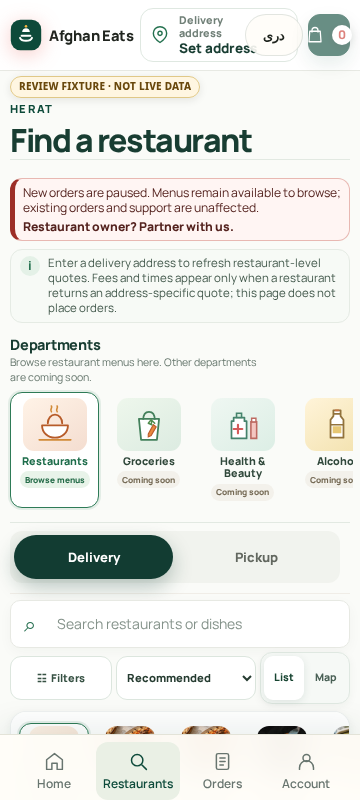
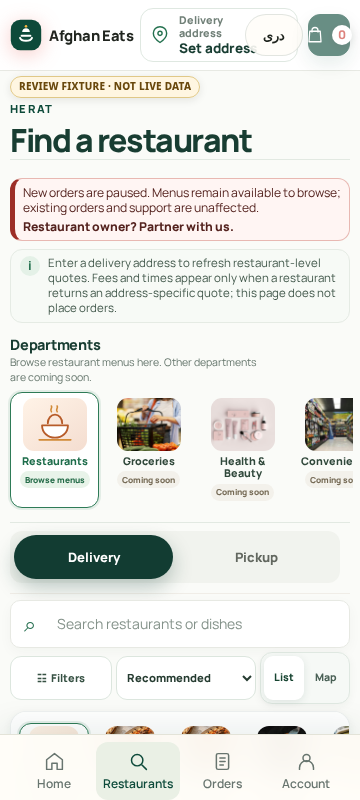
[skip netlify] Remove Alcohol and add department photos

Changed region(s): [[0.825, 0.5, 1.0, 0.5938], [0.3056, 0.5, 0.5194, 0.5625], [0.5806, 0.5, 0.7333, 0.5625]]

diff --git a/restaurants.html b/restaurants.html
@@ -19,7 +19,7 @@
   <link rel="stylesheet" href="/assets/restaurant-card-stability.css?v=20260905-2">
 <link rel="stylesheet" href="/assets/restaurants-mobile-fix.css?v=20260906-1">
 <link rel="stylesheet" href="/assets/design-2026.css?v=premium-experience-2"><link rel="stylesheet" href="/assets/premium-design-pass.css?v=premium-experience-2"><link rel="stylesheet" href="/assets/storefront.css?v=storefront-1">
-  <link rel="stylesheet" href="/assets/restaurant-listing-review.css?v=20261123-12">
+  <link rel="stylesheet" href="/assets/restaurant-listing-review.css?v=20261123-department-photos-1">
 </head>
 <body class="ae-premium premium-customer restaurants-page">
   <a class="ae-skip-link" href="#restaurantGrid"><span class="en-copy">Skip to restaurant results</span><span class="fa-copy">رفتن به نتایج رستورانتها</span></a>
@@ -39,37 +39,32 @@
           <span class="ae-department-status is-available"><span class="en-copy">Browse menus</span><span class="fa-copy">دیدن منوها</span></span>
         </a>
         <button class="ae-department-tile is-coming-soon" data-department="groceries" type="button" disabled>
-          <span class="ae-department-art art-groceries" aria-hidden="true"><svg class="ae-department-icon" viewBox="0 0 64 56" fill="none"><path d="M18 21h28l-3 29H21l-3-29Z" fill="#fff" stroke="#43805b" stroke-width="2.5" stroke-linejoin="round"/><path d="M24 22c0-7 3-11 8-11s8 4 8 11" stroke="#43805b" stroke-width="2.5"/><path d="m31 42 7-13 4 3-7 12-4 2v-4Z" fill="#e9883e" stroke="#bc5d2d" stroke-width="1.6"/><path d="m35 29 1-6 4 4m-4 2-5-2 4-5" stroke="#4f8c4c" stroke-width="2" stroke-linecap="round" stroke-linejoin="round"/></svg></span>
+          <span class="ae-department-art art-groceries" aria-hidden="true"><img src="/assets/department-images/groceries.jpg" alt="" loading="eager" decoding="async" width="72" height="60"></span>
           <strong class="ae-department-name"><span class="en-copy">Groceries</span><span class="fa-copy">مواد خوراکی</span></strong>
           <span class="ae-department-status"><span class="en-copy">Coming soon</span><span class="fa-copy">بهزودی</span></span>
         </button>
         <button class="ae-department-tile is-coming-soon" data-department="health-beauty" type="button" disabled>
-          <span class="ae-department-art art-health" aria-hidden="true"><svg class="ae-department-icon" viewBox="0 0 64 56" fill="none"><path d="M19 19h15v5h3v24H16V24h3v-5Z" fill="#fff" stroke="#45836c" stroke-width="2.4" stroke-linejoin="round"/><path d="M23 13h7v6h-7z" fill="#d9eee0" stroke="#45836c" stroke-width="2.2"/><path d="M25 29v12m-6-6h12" stroke="#d45b59" stroke-width="3" stroke-linecap="round"/><path d="M43 25h8v23h-8z" fill="#f4c7c1" stroke="#bd6a61" stroke-width="2.2"/><path d="M44 20h6v5h-6z" fill="#fff" stroke="#bd6a61" stroke-width="2"/></svg></span>
+          <span class="ae-department-art art-health" aria-hidden="true"><img src="/assets/department-images/health-beauty.jpg" alt="" loading="eager" decoding="async" width="72" height="60"></span>
           <strong class="ae-department-name"><span class="en-copy">Health &amp; Beauty</span><span class="fa-copy">صحت و زیبایی</span></strong>
           <span class="ae-department-status"><span class="en-copy">Coming soon</span><span class="fa-copy">بهزودی</span></span>
         </button>
-        <button class="ae-department-tile is-coming-soon" data-department="alcohol" type="button" disabled>
-          <span class="ae-department-art art-alcohol" aria-hidden="true"><svg class="ae-department-icon" viewBox="0 0 64 56" fill="none"><path d="M27 9h10v8l4 5v25H23V22l4-5V9Z" fill="#fff" stroke="#92733c" stroke-width="2.5" stroke-linejoin="round"/><path d="M27 14h10m-14 15h18" stroke="#92733c" stroke-width="2.3"/><path d="M26 31h12v10H26z" fill="#e6c774"/><path d="M30 9h4" stroke="#c87643" stroke-width="2.5" stroke-linecap="round"/></svg></span>
-          <strong class="ae-department-name"><span class="en-copy">Alcohol</span><span class="fa-copy">مشروبات الکلی</span></strong>
-          <span class="ae-department-status"><span class="en-copy">Coming soon</span><span class="fa-copy">بهزودی</span></span>
-        </button>
         <button class="ae-department-tile is-coming-soon" data-department="convenience" type="button" disabled>
-          <span class="ae-department-art art-convenience" aria-hidden="true"><svg class="ae-department-icon" viewBox="0 0 64 56" fill="none"><path d="M18 21h28l-3 29H21l-3-29Z" fill="#fff" stroke="#4e7890" stroke-width="2.5" stroke-linejoin="round"/><path d="M24 22c0-7 3-11 8-11s8 4 8 11" stroke="#4e7890" stroke-width="2.5"/><path d="M32 29v13m-6.5-6.5h13" stroke="#e08a42" stroke-width="3" stroke-linecap="round"/></svg></span>
+          <span class="ae-department-art art-convenience" aria-hidden="true"><img src="/assets/department-images/convenience.jpg" alt="" loading="eager" decoding="async" width="72" height="60"></span>
           <strong class="ae-department-name"><span class="en-copy">Convenience</span><span class="fa-copy">ضروریات روزانه</span></strong>
           <span class="ae-department-status"><span class="en-copy">Coming soon</span><span class="fa-copy">بهزودی</span></span>
         </button>
         <button class="ae-department-tile is-coming-soon" data-department="gifts" type="button" disabled>
-          <span class="ae-department-art art-gifts" aria-hidden="true"><svg class="ae-department-icon" viewBox="0 0 64 56" fill="none"><path d="M15 27h34v23H15z" fill="#fff" stroke="#ad5f69" stroke-width="2.4"/><path d="M12 21h40v9H12z" fill="#f2b8ae" stroke="#ad5f69" stroke-width="2.4"/><path d="M32 21v29" stroke="#ad5f69" stroke-width="2.4"/><path d="M31 21c-12 1-14-8-8-10 5-1 8 5 9 10Zm2 0c12 1 14-8 8-10-5-1-8 5-9 10Z" fill="#f7db7f" stroke="#ad5f69" stroke-width="2.1" stroke-linejoin="round"/></svg></span>
+          <span class="ae-department-art art-gifts" aria-hidden="true"><img src="/assets/department-images/gifts.jpg" alt="" loading="eager" decoding="async" width="72" height="60"></span>
           <strong class="ae-department-name"><span class="en-copy">Gifts</span><span class="fa-copy">هدایا</span></strong>
           <span class="ae-department-status"><span class="en-copy">Coming soon</span><span class="fa-copy">بهزودی</span></span>
         </button>
         <button class="ae-department-tile is-coming-soon" data-department="electronics" type="button" disabled>
-          <span class="ae-department-art art-electronics" aria-hidden="true"><svg class="ae-department-icon" viewBox="0 0 64 56" fill="none"><rect x="12" y="11" width="29" height="37" rx="4" fill="#fff" stroke="#5a6c9e" stroke-width="2.5"/><rect x="17" y="16" width="19" height="25" rx="1.5" fill="#cbd7f5"/><circle cx="26.5" cy="44.5" r="1.4" fill="#5a6c9e"/><rect x="39" y="24" width="13" height="24" rx="3" fill="#f5c4a8" stroke="#a76c55" stroke-width="2.3"/><path d="M43 28h5m-3 15h1" stroke="#a76c55" stroke-width="1.8" stroke-linecap="round"/></svg></span>
+          <span class="ae-department-art art-electronics" aria-hidden="true"><img src="/assets/department-images/electronics.jpg" alt="" loading="eager" decoding="async" width="72" height="60"></span>
           <strong class="ae-department-name"><span class="en-copy">Electronics</span><span class="fa-copy">لوازم الکترونیکی</span></strong>
           <span class="ae-department-status"><span class="en-copy">Coming soon</span><span class="fa-copy">بهزودی</span></span>
         </button>
         <button class="ae-department-tile is-coming-soon" data-department="pet-supplies" type="button" disabled>
-          <span class="ae-department-art art-pets" aria-hidden="true"><svg class="ae-department-icon" viewBox="0 0 64 56" fill="none"><path d="M16 35h32l-4 12H20l-4-12Z" fill="#fff" stroke="#6c7094" stroke-width="2.5" stroke-linejoin="round"/><path d="M19 35c2 5 8 8 13 8s11-3 13-8" fill="#b9d8e1"/><ellipse cx="24" cy="24" rx="3.2" ry="4" fill="#d99a78"/><ellipse cx="31" cy="20" rx="3.2" ry="4" fill="#d99a78"/><ellipse cx="38" cy="24" rx="3.2" ry="4" fill="#d99a78"/><path d="M27 28c0-3 2-5 5-5s5 2 5 5-2 5-5 5-5-2-5-5Z" fill="#d99a78"/></svg></span>
+          <span class="ae-department-art art-pets" aria-hidden="true"><img src="/assets/department-images/pet-supplies.jpg" alt="" loading="eager" decoding="async" width="72" height="60"></span>
           <strong class="ae-department-name"><span class="en-copy">Pet Supplies</span><span class="fa-copy">لوازم حیوانات خانگی</span></strong>
           <span class="ae-department-status"><span class="en-copy">Coming soon</span><span class="fa-copy">بهزودی</span></span>
         </button>

diff --git a/tests/customer-journey.spec.js b/tests/customer-journey.spec.js
@@ -922,7 +922,12 @@ test('marketplace departments keep restaurant browsing active and other sections
   await page.goto('/restaurants');
   const departments=page.getByRole('navigation',{name:'Marketplace departments'});
   await expect(departments).toBeVisible();
-  await expect(departments.locator('[data-department]')).toHaveCount(8);
+  await expect(departments.locator('[data-department]')).toHaveCount(7);
+  await expect(departments.locator('[data-department="alcohol"]')).toHaveCount(0);
+  const departmentKeys=await departments.locator('.ae-department-row > [data-department]').evaluateAll(nodes=>nodes.map(node=>node.dataset.department));
+  expect(departmentKeys).toEqual(['restaurants','groceries','health-beauty','convenience','gifts','electronics','pet-supplies']);
+  await expect(departments.locator('.dish-category-row')).toHaveCount(0);
+  await expect(page.locator('.dish-category-row')).toBeVisible();
   await expect(departments.locator('a')).toHaveCount(1);
   const restaurantsTile=departments.locator('[data-department="restaurants"]');
   await expect(restaurantsTile).toHaveAttribute('href','/restaurants');
@@ -930,14 +935,18 @@ test('marketplace departments keep restaurant browsing active and other sections
   await expect(restaurantsTile).toContainText('Restaurants');
   await expect(restaurantsTile).toContainText('Browse menus');
   const futureDepartments=[
-    ['groceries','Groceries'],['health-beauty','Health & Beauty'],['alcohol','Alcohol'],
-    ['convenience','Convenience'],['gifts','Gifts'],['electronics','Electronics'],['pet-supplies','Pet Supplies']
+    ['groceries','Groceries','groceries.jpg'],['health-beauty','Health & Beauty','health-beauty.jpg'],
+    ['convenience','Convenience','convenience.jpg'],['gifts','Gifts','gifts.jpg'],
+    ['electronics','Electronics','electronics.jpg'],['pet-supplies','Pet Supplies','pet-supplies.jpg']
   ];
-  for(const [key,label] of futureDepartments){
+  for(const [key,label,imageName] of futureDepartments){
     const tile=departments.locator(`[data-department="${key}"]`);
     await expect(tile).toBeDisabled();
     await expect(tile).toContainText(label);
     await expect(tile).toContainText('Coming soon');
+    const photo=tile.locator('.ae-department-art img');
+    await expect(photo).toHaveAttribute('src',`/assets/department-images/${imageName}`);
+    await expect.poll(()=>photo.evaluate(image=>image.naturalWidth)).toBeGreaterThan(0);
   }
   await page.setViewportSize({width:390,height:844});
   const mobileDepartmentLayout=await page.evaluate(()=>{
@@ -954,7 +963,7 @@ test('marketplace departments keep restaurant browsing active and other sections
   await expect(departmentsFa.locator('[data-department="restaurants"]')).toContainText('رستورانتها');
   await expect(departmentsFa.locator('[data-department="restaurants"]')).toContainText('دیدن منوها');
   const futureLabelsFa=[
-    ['groceries','مواد خوراکی'],['health-beauty','صحت و زیبایی'],['alcohol','مشروبات الکلی'],
+    ['groceries','مواد خوراکی'],['health-beauty','صحت و زیبایی'],
     ['convenience','ضروریات روزانه'],['gifts','هدایا'],['electronics','لوازم الکترونیکی'],['pet-supplies','لوازم حیوانات خانگی']
   ];
   for(const [key,label] of futureLabelsFa){
@@ -974,7 +983,7 @@ test('discovery review frames cover English and Dari at desktop, tablet, mobile 
   await page.goto('/restaurants');
   await expect(page.locator('#restaurantGrid .restaurant-card')).toHaveCount(2);
   await expect(page.locator('.ae-department-nav')).toBeVisible();
-  await expect(page.locator('.ae-department-row [data-department]')).toHaveCount(8);
+  await expect(page.locator('.ae-department-row [data-department]')).toHaveCount(7);
   fs.mkdirSync(path.join(__dirname,'../visual-proof'),{recursive:true});
   const captureWidths=async(locale)=>{
     for(const [width,height,label] of [[1440,1000,'desktop'],[768,1024,'tablet'],[390,844,'mobile'],[360,800,'stress']]){

diff --git a/assets/restaurant-listing-review.css b/assets/restaurant-listing-review.css
@@ -61,9 +61,9 @@ html[dir="rtl"] .restaurant-page-kicker { letter-spacing: 0; text-transform: non
 .ae-department-tile:disabled { cursor: not-allowed; opacity: 1; color: #66766c; }
 .ae-department-art { display: grid; width: 72px; height: 60px; place-items: center; overflow: hidden; border-radius: 14px; background: linear-gradient(145deg,#fff3e7,#f4ddd0); }
 .ae-department-icon { display: block; width: 52px; height: 49px; }
+.ae-department-art img { display: block; width: 100%; height: 100%; object-fit: cover; object-position: center; }
 .art-groceries { background: linear-gradient(145deg,#eef7ec,#dcebe1); }
 .art-health { background: linear-gradient(145deg,#eff7f2,#dceee5); }
-.art-alcohol { background: linear-gradient(145deg,#fff4d9,#f2e1ad); }
 .art-convenience { background: linear-gradient(145deg,#edf5fa,#dce9f0); }
 .art-gifts { background: linear-gradient(145deg,#fff0ee,#f4d9d8); }
 .art-electronics { background: linear-gradient(145deg,#eef0fb,#d9def3); }

diff --git a/visual-proof/restaurant-discovery-data-field-map.md b/visual-proof/restaurant-discovery-data-field-map.md
@@ -6,7 +6,7 @@
 
 | Screen element | Source / behavior | Display rule in this review |
 |---|---|---|
-| Department strip | Static markup in `restaurants.html`; does not read category inventory | Restaurants links to the existing restaurant listing and is the only active browsing department. Groceries, Health & Beauty, Alcohol, Convenience, Gifts, Electronics, and Pet Supplies are disabled controls labeled “Coming soon” / “بهزودی”. No non-restaurant catalogue, inventory, or order flow is connected. This row does not claim stock, delivery coverage, or order availability. Site-wide ordering remains paused. |
+| Department strip | Static markup in `restaurants.html`; does not read category inventory | Restaurants links to the existing restaurant listing and is the only active browsing department. Groceries, Health & Beauty, Convenience, Gifts, Electronics, and Pet Supplies are top-level disabled controls labeled “Coming soon” / “بهزودی”, with local category photos. Restaurant cuisines remain a separate filter. No non-restaurant catalogue, inventory, or order flow is connected. Photos are illustrative and do not claim stock, delivery coverage, or order availability. Site-wide ordering remains paused. |
 
 ## Restaurant cards and listing
 

diff --git a/visual-proof/README.md b/visual-proof/README.md
@@ -17,7 +17,7 @@ The submitted address uses the existing read-only `orders.quote` GET contract fo
 
 ## Marketplace departments
 
-The reference-inspired department strip is separate from restaurant cuisine filters. Restaurants is the only active browsing link; Groceries, Health & Beauty, Alcohol, Convenience, Gifts, Electronics, and Pet Supplies are disabled and labeled **Coming soon** (Dari: **بهزودی**). No non-restaurant inventory, catalogue, or order flow is connected. Ordering remains paused site-wide.
+The reference-inspired department strip is separate from restaurant cuisine filters. Restaurants is the only active browsing link; Groceries, Health & Beauty, Convenience, Gifts, Electronics, and Pet Supplies are top-level disabled sections with real category photos, labeled **Coming soon** (Dari: **بهزودی**). The photos are illustrative only; no non-restaurant inventory, catalogue, or order flow is connected. Ordering remains paused site-wide.
 
 | Language | Desktop | Mobile |
 |---|---|---|

diff --git a/assets/department-images/README.md b/assets/department-images/README.md
@@ -1,0 +1,14 @@
+# Marketplace department photos
+
+These local JPEGs were selected from the photo candidates supplied for this website update and optimized for the department strip. They are presentation-only: all six departments remain disabled and labeled “Coming soon” / “بهزودی”, so the images do not imply live inventory, coverage, or ordering.
+
+| Local asset | Candidate file | Department |
+|---|---|---|
+| `groceries.jpg` | `9HvmZpmndSq8MTHKaxv7J6.jpg` | Groceries |
+| `health-beauty.jpg` | `Au8L3AkbcCUBYhQVmviC7E.jpg` | Health & Beauty |
+| `convenience.jpg` | `CJVsHPXnD6qfLNmdAt7kkA.jpg` | Convenience |
+| `gifts.jpg` | `UENpAssVXwuqjGPhwRWvZV.jpg` | Gifts |
+| `electronics.jpg` | `5uWKWUwo6uPdmmNpTam9Kd.jpg` | Electronics |
+| `pet-supplies.jpg` | `QtERdTJiR4KmfyfXrNm2eC.jpg` | Pet Supplies |
+
+The source photos were resized to a maximum 640 × 640 px, converted to optimized progressive JPEGs, and are displayed with a central cover crop in the compact department tiles.
